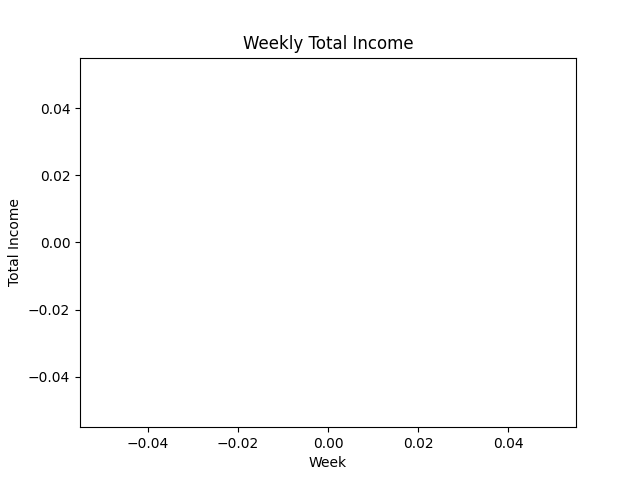
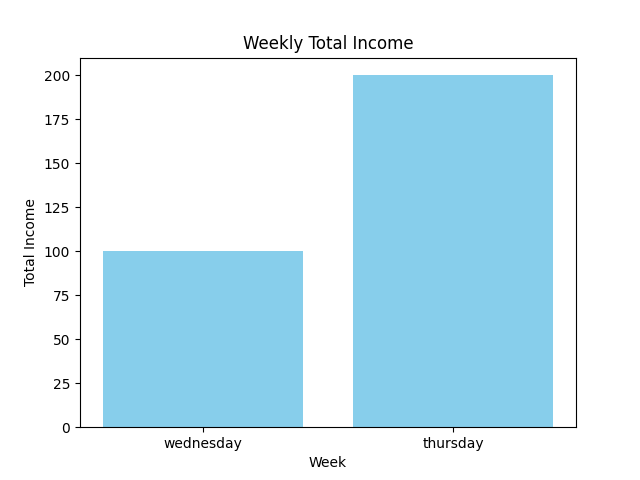
update

diff --git a/website/templates/webapp.html b/website/templates/webapp.html
@@ -51,22 +51,21 @@
         <label for="tab9"><i class="icon-coffee"></i>WEEK</label>
 
 
-        <input type="radio" name="pcss3t" id="tab10" class="tab-content-last">
+        <input type="radio" name="pcss3t" id="tab10" class="tab-content-10">
         <label for="tab10"><i class="icon-home"></i>STAFF</label>
 
 
         <ul>
           <li class="tab-content tab-content-1 typography">
             <h1>Home</h1>
-            <p>Section For Home Information
-</p>
-            <p>Please Note all drinks can have alternative Milk replaced for alergy purposes, we stock Soy, Oat, Almond & Coconut our whipped cream Belgian Chocolate and marshmellows are all vegan friendly</p>
-            <p class="text-right"><em>Find out more about Nikola Tesla from <a href="http://en.wikipedia.org/wiki/Nikola_Tesla" target="_blank">Wikipedia</a>.</em></p>
+            <p>Statistical Data
+              <img src="{{ url_for('static', filename='images/week.png') }}" alt="Statistical Data">
+            </p>
           </li>
 
 
           <li class="tab-content tab-content-2 typography">
-            <h1>Monday</h1>
+            <h1>Monday Data</h1>
             <p>Statistical Data For Monday
               <img src="{{ url_for('static', filename='images/mon.png') }}" alt="Statistical Data">
             </p>
@@ -74,7 +73,7 @@
 
 
           <li class="tab-content tab-content-3 typography">
-            <h1>Tuesday</h1>
+            <h1>Tuesday Data</h1>
             <p>Statistical Data For Tuesday
               <img src="{{ url_for('static', filename='images/tue.png') }}" alt="Statistical Data">
             </p>
@@ -82,7 +81,7 @@
 
 
           <li class="tab-content tab-content-4 typography">
-            <h1>Wednesday</h1>
+            <h1>Wednesday Data</h1>
             <p>Statistical Data For Wednesday
               <img src="{{ url_for('static', filename='images/wed.png') }}" alt="Statistical Data">
             </p>
@@ -90,7 +89,7 @@
 
 
           <li class="tab-content tab-content-5 typography">
-            <h1>thursday</h1>
+            <h1>Thursday Data</h1>
             <p>Statistical Data For Thursday
               <img src="{{ url_for('static', filename='images/thu.png') }}" alt="Statistical Data">
             </p>
@@ -98,7 +97,7 @@
 
 
           <li class="tab-content tab-content-6 typography">
-            <h1>Friday</h1>
+            <h1>Friday Data</h1>
             <p>Statistical Data For Friday
               <img src="{{ url_for('static', filename='images/fri.png') }}" alt="Statistical Data">
             </p>
@@ -106,7 +105,7 @@
 
 
           <li class="tab-content tab-content-7 typography">
-            <h1>Saturday</h1>
+            <h1>Saturday Data</h1>
             <p>Statistical Data For Saturday
               <img src="{{ url_for('static', filename='images/sat.png') }}" alt="Statistical Data">
             </p>
@@ -114,7 +113,7 @@
 
 
           <li class="tab-content tab-content-8 typography">
-            <h1>Sunday</h1>
+            <h1>Sunday Data</h1>
             <p>Statistical Data For Sunday
               <img src="{{ url_for('static', filename='images/sun.png') }}" alt="Statistical Data">
             </p>
@@ -129,7 +128,7 @@
           </li> -->
 
 
-          <li class="tab-content tab-content-last typography">
+          <li class="tab-content tab-content-10 typography">
             <h1>Staff</h1>
             <p>Statistical Data For Staff
               <img src="{{ url_for('static', filename='images/week.png') }}" alt="Statistical Data">
@@ -140,41 +139,53 @@
             <div class="typography">
                 <h1>Weekly Data</h1>
 
-                <!-- Form to submit weekly data -->
+
                 <form action="/weekly_data" method="POST" class="screen-content">
                     <div class="form-group">
                         <label for="week">Day Of The Week:</label>
                         <input type="text" name="week" placeholder="Enter week" required>
                     </div>
+
+
                     <div class="form-group">
                         <label for="total_income">Total Income:</label>
                         <input type="number" name="total_income" placeholder="Enter total income" required>
                     </div>
+
+
                     <div class="form-group">
                         <label for="highest_spend">Highest Spend:</label>
                         <input type="number" name="highest_spend" placeholder="Enter highest spend" required>
                     </div>
+
+
                     <div class="form-group">
                         <label for="best_selling_item">Best Selling Item:</label>
                         <input type="text" name="best_selling_item" placeholder="Enter best selling item" required>
                     </div>
+
+
                     <div class="form-group">
                         <label for="worst_selling_item">Worst Selling Item:</label>
                         <input type="text" name="worst_selling_item" placeholder="Enter worst selling item" required>
                     </div>
+
+
                     <div class="form-group">
                         <label for="mvp_staff_member">MVP Staff Member:</label>
                         <input type="text" name="mvp_staff_member" placeholder="Enter MVP staff member" required>
                     </div>
+
+
                     <div class="form-group">
                         <label for="average_basket_spend">Average Basket Spend:</label>
                         <input type="number" name="average_basket_spend" placeholder="Enter average basket spend" required>
                     </div>
 
-                    <button type="submit">Submit Weekly Data</button>
+
+                    <button type="submit">Submit Data</button>
                 </form>
 
-                <!-- Display existing weekly data (you may need to update this based on the new data structure) -->
                 <img src="{{ url_for('static', filename='mainplot.png') }}" alt="Weekly Income Chart">
 
                 <div class="existing-weekly-data">

diff --git a/website/static/webapp.css b/website/static/webapp.css
@@ -112,7 +112,7 @@ a:hover {
   -moz-transition: all 0.5s;  
   -webkit-transition: all 0.5s;
 }
-.pcss3t > .tab-content-first:checked ~ ul .tab-content-first,
+.pcss3t > .tab-content-1:checked ~ ul .tab-content-1,
 .pcss3t > .tab-content-2:checked ~ ul .tab-content-2,
 .pcss3t > .tab-content-3:checked ~ ul .tab-content-3,
 .pcss3t > .tab-content-4:checked ~ ul .tab-content-4,
@@ -121,7 +121,7 @@ a:hover {
 .pcss3t > .tab-content-7:checked ~ ul .tab-content-7,
 .pcss3t > .tab-content-8:checked ~ ul .tab-content-8,
 .pcss3t > .tab-content-9:checked ~ ul .tab-content-9,
-.pcss3t > .tab-content-last:checked ~ ul .tab-content-last {
+.pcss3t > .tab-content-10:checked ~ ul .tab-content-10 {
   z-index: 1;
   top: 0;
   left: 0;
@@ -146,12 +146,12 @@ a:hover {
   display: none;
   height: auto !important;
 }
-.pcss3t-height-auto > .tab-content-first:checked ~ ul .tab-content-first,
+.pcss3t-height-auto > .tab-content-1:checked ~ ul .tab-content-1,
 .pcss3t-height-auto > .tab-content-2:checked ~ ul .tab-content-2,
 .pcss3t-height-auto > .tab-content-3:checked ~ ul .tab-content-3,
 .pcss3t-height-auto > .tab-content-4:checked ~ ul .tab-content-4,
 .pcss3t-height-auto > .tab-content-5:checked ~ ul .tab-content-5,
-.pcss3t-height-auto > .tab-content-last:checked ~ ul .tab-content-last {
+.pcss3t-height-auto > .tab-content-10:checked ~ ul .tab-content-10 {
   display: block;
 }
 

diff --git a/website/views.py b/website/views.py
@@ -1,5 +1,7 @@
 from flask import Blueprint, redirect, render_template, url_for, request, jsonify
 from .models import WeeklyData, db
+import matplotlib
+matplotlib.use("Agg")
 import matplotlib.pyplot as plt
 
 my_view = Blueprint("my_view", __name__)
